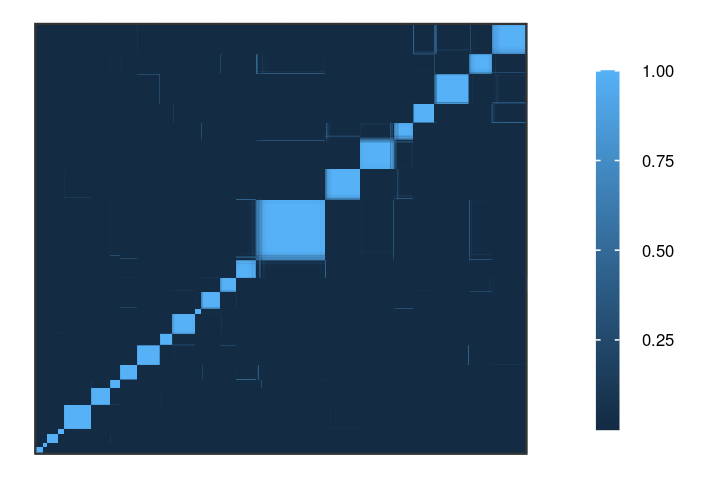
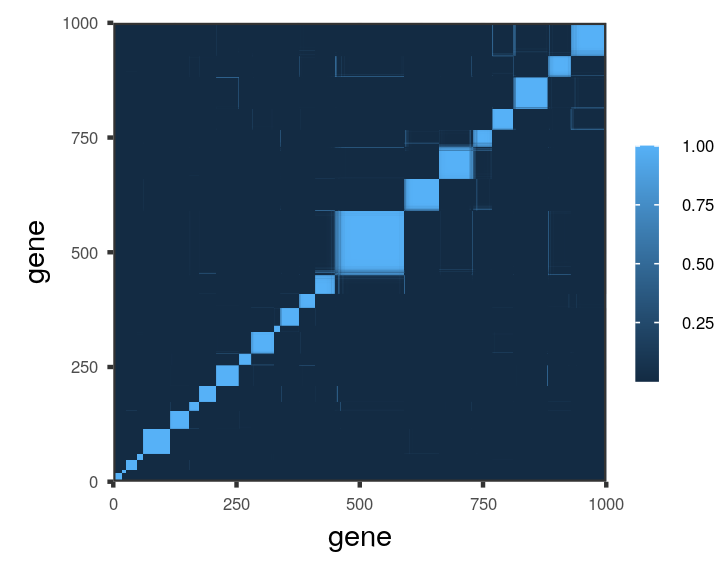
fix mice experiment plots

diff --git a/writing/journal_paper/mice_data_experiments.tex b/writing/journal_paper/mice_data_experiments.tex
@@ -79,6 +79,7 @@ because the later time points are more spread out.
 %
 
 We fitted the initial approximate posterior at $\alpha_0 = 6$. 
+We will evaluate the senstivity of this choice of $\alpha$ below. 
 \figref{gene_centroids} shows the inferred smoothers 
 $\regmatrix\mathbb{E}_\q[\beta_k]$ for selected clusters. 
 \figref{gene_initial_coclustering} displays the inferred co-clustering matrix
@@ -112,7 +113,7 @@ both parametric and functional perturbations to the stick distribution.
 \begin{knitrout}
 \definecolor{shadecolor}{rgb}{0.969, 0.969, 0.969}\color{fgcolor}\begin{figure}[!h]
 
-{\centering \includegraphics[width=0.588\linewidth,height=0.400\linewidth]{figure/gene_initial_coclustering-1} 
+{\centering \includegraphics[width=0.588\linewidth,height=0.470\linewidth]{figure/gene_initial_coclustering-1} 
 
 }
 
@@ -138,8 +139,9 @@ variational parameters, at $\alpha = 1$ and $\alpha = 11$.
 %(Note that the co-clustering matrix as a posterior quantity depends on only expectations of $\z$.
 % We write $\gcoclustering(\etalinglobal)$ with the 
 % understanding that the coclustering matrix is a function of global parameters $\etaglob$ only through its corresponding local parameters $\eta_\z$).
-For either $\alpha$, the change in co-clustering matrix 
-is minuscule (\figref{gene_alpha_coclustering}):
+
+For either $\alpha$, the change in the posterior co-clustering 
+matrix is minuscule (\figref{gene_alpha_coclustering}):
 the largest entry of either matrix $\Delta\gcoclustering(\etalinglobal(1))$ 
 or $\Delta\gcoclustering(\etalinglobal(11))$ is of order $10^{-2}$. 
 Refitting the approximate posterior at $\alpha = 1$ and $\alpha = 11$ 
@@ -232,7 +234,7 @@ The linearized variational parameters are again able to capture the qualitative 
 \begin{knitrout}
 \definecolor{shadecolor}{rgb}{0.969, 0.969, 0.969}\color{fgcolor}\begin{figure}[!h]
 
-{\centering \includegraphics[width=0.980\linewidth,height=0.784\linewidth]{figure/gene_fpert_coclustering-1} 
+{\centering \includegraphics[width=0.980\linewidth,height=0.823\linewidth]{figure/gene_fpert_coclustering-1} 
 
 }
 
